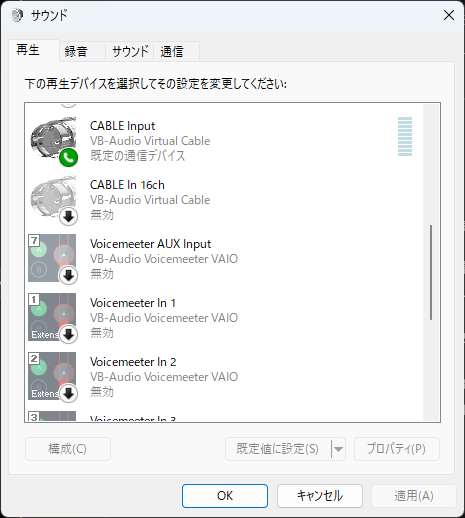
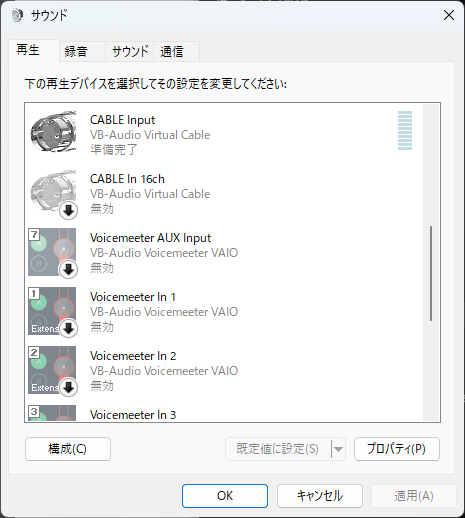
docs(help): 再生タブのスクショを修正後の状態に差し替える
旧スクショは CABLE Input が「既定の通信デバイス」のままで、手順4の
指示と矛盾していた。上部（スピーカーが既定）と下部（CABLE Input が
準備完了）の2枚に分けて、正しい状態を写す。

あわせて、残るデバイスの数を固定で書くのをやめた。Bluetooth や未接続の
ヘッドホンが並ぶ環境では数が合わず、正しいのに間違っていると読めるため。

diff --git a/app/help/ai-participant/page.tsx b/app/help/ai-participant/page.tsx
@@ -127,7 +127,7 @@ export default function AiParticipantHelpPage() {
           <DeviceTable
             caption="再生タブ"
             rows={[
-              ['ヘッドホン', 'keep'],
+              ['スピーカー / ヘッドホン（普段聴くもの）', 'keep'],
               ['CABLE Input', 'keep'],
               ['Voicemeeter Input', 'keep'],
               ['CABLE In 16ch', 'disable'],
@@ -135,15 +135,22 @@ export default function AiParticipantHelpPage() {
             ]}
           />
           <Shot
+            src="/help/ai-participant/sound-playback-top.png"
+            caption="再生タブの上部。スピーカーが既定、Bluetooth や未接続のヘッドホンはそのまま残してよい"
+          />
+          <Shot
             src="/help/ai-participant/sound-playback.png"
-            caption="無効化が済んだ再生タブ（一覧はスクロールするので全部は写っていません）。なお CABLE Input に付いている受話器アイコンは手順4で外します"
+            caption="同じ再生タブの下部。CABLE Input が「準備完了」で受話器アイコンが付いていなければ正しい"
           />
           <Shot
             src="/help/ai-participant/sound-recording.png"
             caption="無効化が済んだ録音タブ。Voicemeeter Out B1 に受話器アイコンが付いている"
           />
           <Check>
-            録音タブに残るのが3つ、再生タブに残るのが3つになっていれば成功です。
+            録音タブに「マイク配列 / CABLE Output / Voicemeeter Out B1」の3つ、再生タブに
+            「普段聴くデバイス / CABLE Input / Voicemeeter Input」が残っていれば成功です。
+            Bluetooth や未接続のヘッドホンが並んでいるのは構いません（紛らわしいのは
+            名前が似た仮想デバイスだけです）。
           </Check>
         </Section>
 
